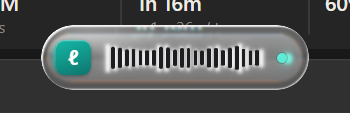
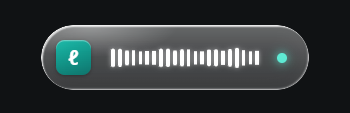
Wellenform wählt die richtige Farbe; Version 0.18.1
- Dunkle Balken nur, wenn die rohe Helligkeit des erfassten Bereichs über 0,6 liegt (bei starker Deckkraft zur Tönung gemischt), sonst weiße Balken mit Leuchten
- Schwelle gilt gleich in der Vorschau der Einstellungen
- Bildschirmfotos über dunklem und weißem Grund neu erstellt

diff --git a/src/renderer/pille-glas.js b/src/renderer/pille-glas.js
@@ -135,11 +135,11 @@ void main(){
     st.setProperty('--milch-a', ((hell0 ? 0.85 : 0.65) * f).toFixed(3));
     st.setProperty('--milch-b', ((hell0 ? 0.5 : 0.35) * f).toFixed(3));
     st.setProperty('--deck', deck.toFixed(3));
-    // Helligkeit des fertigen Glases: Hintergrund gemischt mit Milch und Tönung
+    // Dunkle Balken nur über hellem Grund: Helligkeit des erfassten Bereichs (roh), bei starker
+    // Deckkraft zur Tönung hin gemischt (sonst weiße Balken auf weißem Deckglas).
     const lt = leucht(ton);
-    const a = Math.min(1, deck + (1 - deck) * f * 0.5);
-    const lc = lum === null ? lt : lum * (1 - a) + lt * a;
-    pille.classList.toggle('hellgrund', lc > 0.55);
+    const lc = lum === null ? lt : lum * (1 - deck) + lt * deck;
+    pille.classList.toggle('hellgrund', lc > 0.6);
   }
 
   return { erzeugen, helligkeit, anwenden };
